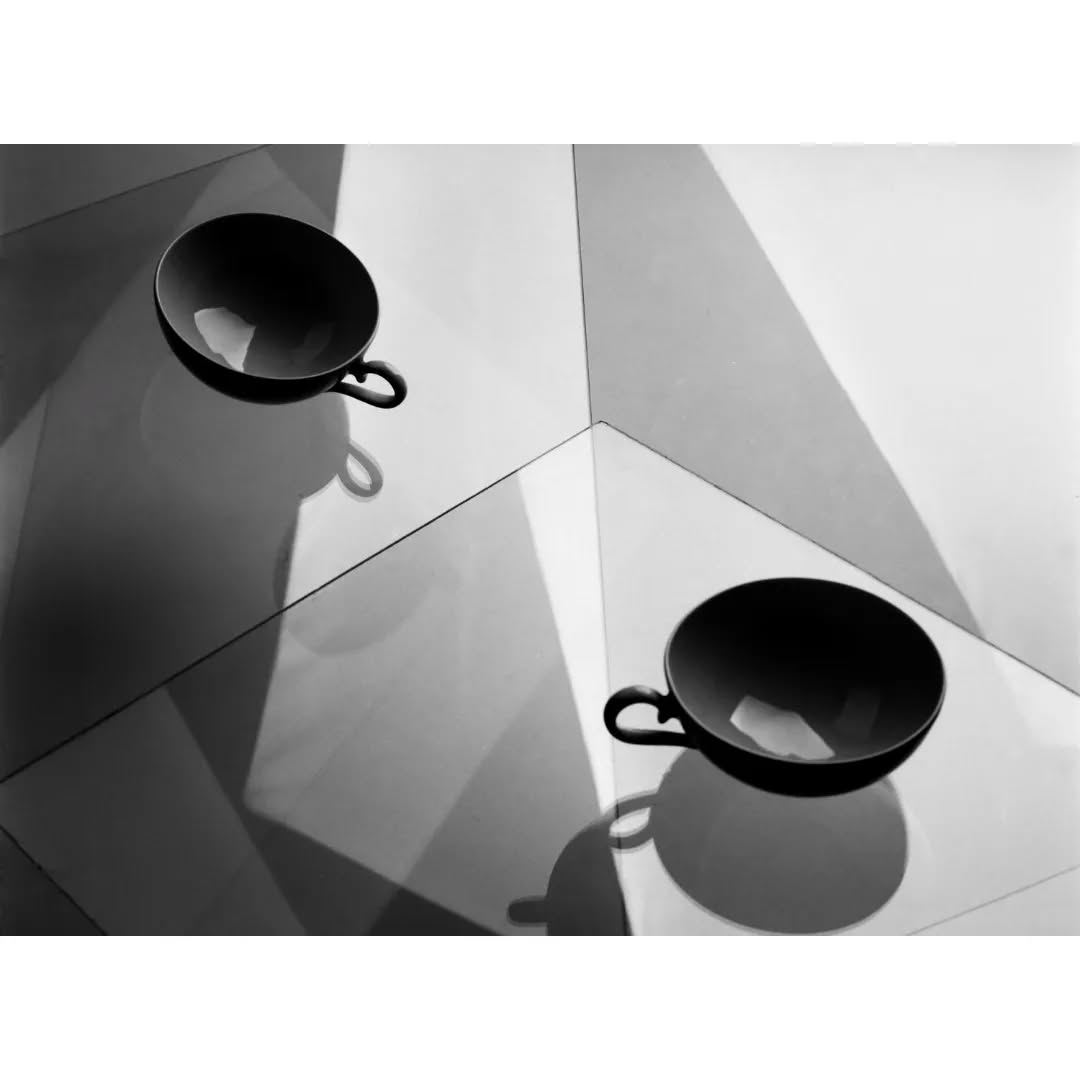
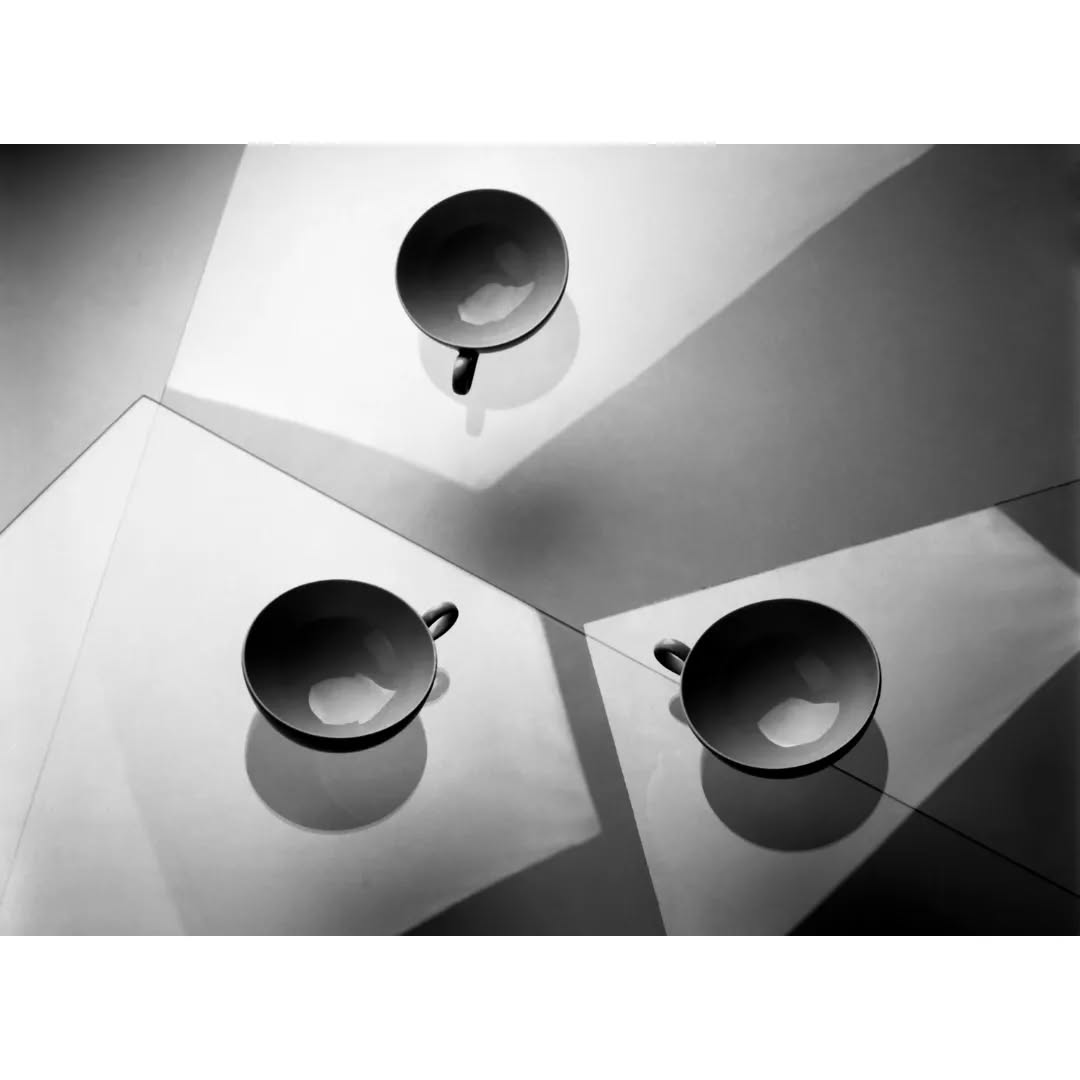
preview images & fix still1

diff --git a/_pages/photography.md b/_pages/photography.md
@@ -19,6 +19,12 @@ preview_galleries:
       - /photography/assets/img/subjective_landscape/subjective_landscape_1a-480.webp
       - /photography/assets/img/subjective_landscape/subjective_landscape_1b-480.webp
       - /photography/assets/img/subjective_landscape/subjective_landscape_1c-480.webp
+      - /photography/assets/img/subjective_landscape/subjective_landscape_2a-480.webp
+      - /photography/assets/img/subjective_landscape/subjective_landscape_2b-480.webp
+      - /photography/assets/img/subjective_landscape/subjective_landscape_2c-480.webp
+      - /photography/assets/img/subjective_landscape/subjective_landscape_3a-480.webp
+      - /photography/assets/img/subjective_landscape/subjective_landscape_3b-480.webp
+      - /photography/assets/img/subjective_landscape/subjective_landscape_3c-480.webp
 
   - id: gallery-geometry
     title: geometry
